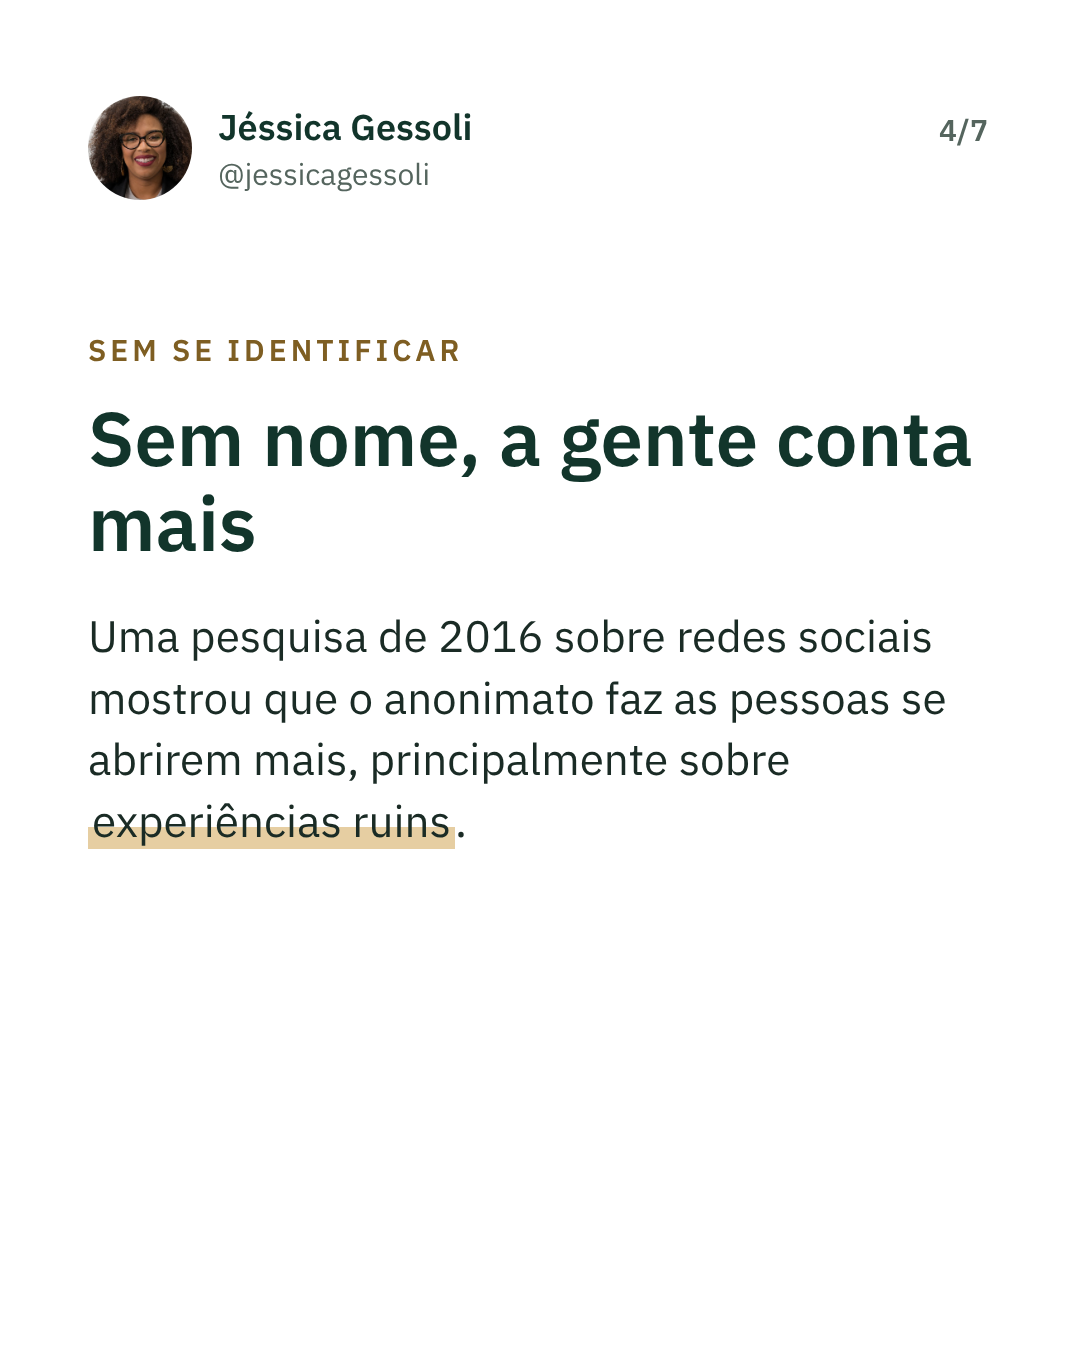
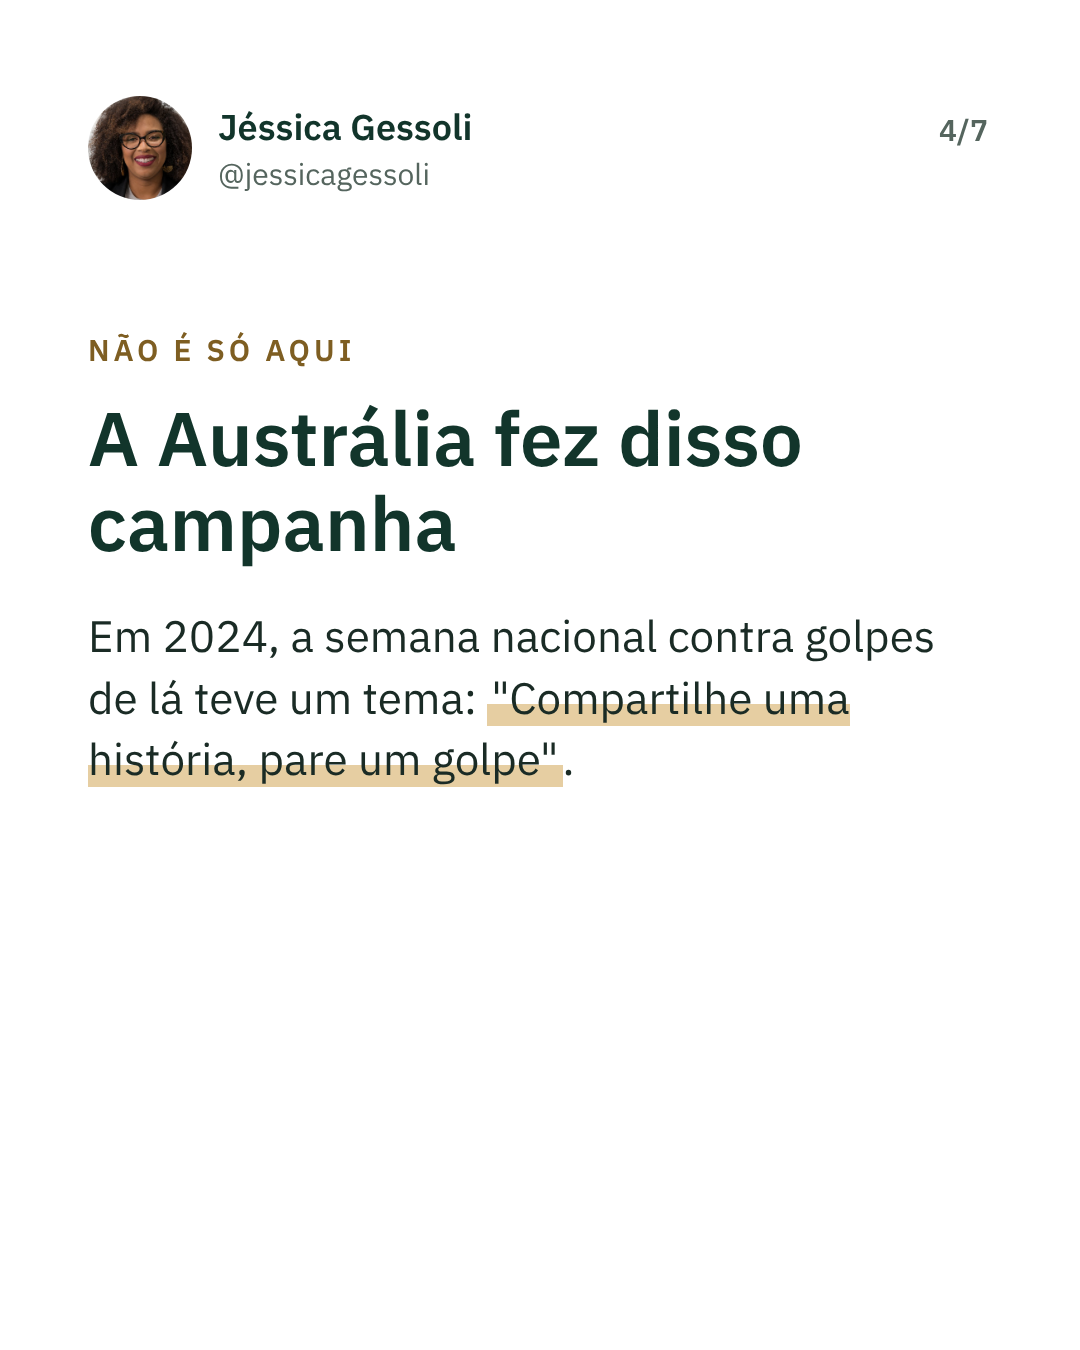
Liga 'E escondem' ao lançamento do 'Conte o seu golpe' (chamada para o dia seguinte; abertura que retoma o post anterior)
Claude-Session: https://claude.ai/code/session_014grh3uaSABRrhKanxqxRUA

Changed region(s): [[0.0611, 0.4356, 0.8861, 0.6533], [0.0611, 0.2489, 0.9167, 0.4356]]

diff --git a/campaigns/social/silencio-2026-10/out/2026-10-22-especialistas-caem-e-escondem-7.html b/campaigns/social/silencio-2026-10/out/2026-10-22-especialistas-caem-e-escondem-7.html
@@ -54,4 +54,4 @@ body.s-por{background:#F3F5F2}
 .chk{position:absolute;left:88px;top:860px;display:flex;gap:26px}.chk div{width:92px;height:92px;border:6px solid #D9B76E;border-radius:16px;position:relative}
 .chk div.ok{background:#D9B76E}.chk div.ok:after{content:"";position:absolute;left:28px;top:8px;width:22px;height:46px;border:solid #12352B;border-width:0 10px 10px 0;transform:rotate(45deg)}
 body.s-lat{background:#D9B76E;color:#12352B}.s-lat .at,.s-lat .pg{color:#12352B;opacity:.75}.s-lat mark{background:none;color:#12352B;text-decoration:underline;text-decoration-thickness:8px;text-underline-offset:14px;padding:0}.s-lat .qm,.s-lat .qa{color:#12352B}
-</style></head><body class="dark"><div class="hdr"><div class="av"></div><div><div class="nm">Jéssica Gessoli</div><div class="at">@jessicagessoli</div></div></div><div class="pg">7/7</div><div class="box"><div class="eb">POR ISSO EU CONTEI</div><div class="tt">Quem esconde protege a própria imagem. <mark>Quem conta protege os outros.</mark></div><div class="bd">Salva e manda para quem já caiu e nunca contou.</div></div></body></html>
+</style></head><body class="dark"><div class="hdr"><div class="av"></div><div><div class="nm">Jéssica Gessoli</div><div class="at">@jessicagessoli</div></div></div><div class="pg">7/7</div><div class="box"><div class="eb">POR ISSO EU CONTEI</div><div class="tt">Quem esconde protege a própria imagem. <mark>Quem conta protege os outros.</mark></div><div class="bd">Amanhã eu abro um canal para você contar o seu, sem se identificar. Salva e manda para quem já caiu e nunca contou.</div></div></body></html>

diff --git a/campaigns/social/conte-seu-golpe-2026-10/out/2026-10-23-conte-o-seu-golpe-4.html b/campaigns/social/conte-seu-golpe-2026-10/out/2026-10-23-conte-o-seu-golpe-4.html
@@ -54,4 +54,4 @@ body.s-por{background:#F3F5F2}
 .chk{position:absolute;left:88px;top:860px;display:flex;gap:26px}.chk div{width:92px;height:92px;border:6px solid #D9B76E;border-radius:16px;position:relative}
 .chk div.ok{background:#D9B76E}.chk div.ok:after{content:"";position:absolute;left:28px;top:8px;width:22px;height:46px;border:solid #12352B;border-width:0 10px 10px 0;transform:rotate(45deg)}
 body.s-lat{background:#D9B76E;color:#12352B}.s-lat .at,.s-lat .pg{color:#12352B;opacity:.75}.s-lat mark{background:none;color:#12352B;text-decoration:underline;text-decoration-thickness:8px;text-underline-offset:14px;padding:0}.s-lat .qm,.s-lat .qa{color:#12352B}
-</style></head><body class=""><div class="hdr"><div class="av"></div><div><div class="nm">Jéssica Gessoli</div><div class="at">@jessicagessoli</div></div></div><div class="pg">4/7</div><div class="box"><div class="eb">SEM SE IDENTIFICAR</div><div class="tt">Sem nome, a gente conta mais</div><div class="bd">Uma pesquisa de 2016 sobre redes sociais mostrou que o anonimato faz as pessoas se abrirem mais, principalmente sobre <mark>experiências ruins</mark>.</div></div></body></html>
+</style></head><body class=""><div class="hdr"><div class="av"></div><div><div class="nm">Jéssica Gessoli</div><div class="at">@jessicagessoli</div></div></div><div class="pg">4/7</div><div class="box"><div class="eb">NÃO É SÓ AQUI</div><div class="tt">A Austrália fez disso campanha</div><div class="bd">Em 2024, a semana nacional contra golpes de lá teve um tema: <mark>&quot;Compartilhe uma história, pare um golpe&quot;</mark>.</div></div></body></html>

diff --git a/campaigns/social/conte-seu-golpe-2026-10/out/2026-10-23-conte-o-seu-golpe-2.html b/campaigns/social/conte-seu-golpe-2026-10/out/2026-10-23-conte-o-seu-golpe-2.html
@@ -54,4 +54,4 @@ body.s-por{background:#F3F5F2}
 .chk{position:absolute;left:88px;top:860px;display:flex;gap:26px}.chk div{width:92px;height:92px;border:6px solid #D9B76E;border-radius:16px;position:relative}
 .chk div.ok{background:#D9B76E}.chk div.ok:after{content:"";position:absolute;left:28px;top:8px;width:22px;height:46px;border:solid #12352B;border-width:0 10px 10px 0;transform:rotate(45deg)}
 body.s-lat{background:#D9B76E;color:#12352B}.s-lat .at,.s-lat .pg{color:#12352B;opacity:.75}.s-lat mark{background:none;color:#12352B;text-decoration:underline;text-decoration-thickness:8px;text-underline-offset:14px;padding:0}.s-lat .qm,.s-lat .qa{color:#12352B}
-</style></head><body class=""><div class="hdr"><div class="av"></div><div><div class="nm">Jéssica Gessoli</div><div class="at">@jessicagessoli</div></div></div><div class="pg">2/7</div><div class="box"><div class="eb">POR QUE CONTAR</div><div class="tt">Golpe contado vira alerta</div><div class="bd">O golpista conta com o seu silêncio. Cada história contada mostra o roteiro para quem <mark>ainda não recebeu</mark> a mensagem.</div></div></body></html>
+</style></head><body class=""><div class="hdr"><div class="av"></div><div><div class="nm">Jéssica Gessoli</div><div class="at">@jessicagessoli</div></div></div><div class="pg">2/7</div><div class="box"><div class="eb">ONTEM EU MOSTREI</div><div class="tt">8 em cada 10 teriam vergonha</div><div class="bd">Numa pesquisa britânica, de admitir que caíram num golpe. Por isso, hoje eu abro um lugar para contar <mark>sem se identificar</mark>.</div></div></body></html>

diff --git a/campaigns/social/conte-seu-golpe-2026-10/out/2026-10-23-conte-o-seu-golpe-3.html b/campaigns/social/conte-seu-golpe-2026-10/out/2026-10-23-conte-o-seu-golpe-3.html
@@ -54,4 +54,4 @@ body.s-por{background:#F3F5F2}
 .chk{position:absolute;left:88px;top:860px;display:flex;gap:26px}.chk div{width:92px;height:92px;border:6px solid #D9B76E;border-radius:16px;position:relative}
 .chk div.ok{background:#D9B76E}.chk div.ok:after{content:"";position:absolute;left:28px;top:8px;width:22px;height:46px;border:solid #12352B;border-width:0 10px 10px 0;transform:rotate(45deg)}
 body.s-lat{background:#D9B76E;color:#12352B}.s-lat .at,.s-lat .pg{color:#12352B;opacity:.75}.s-lat mark{background:none;color:#12352B;text-decoration:underline;text-decoration-thickness:8px;text-underline-offset:14px;padding:0}.s-lat .qm,.s-lat .qa{color:#12352B}
-</style></head><body class=""><div class="hdr"><div class="av"></div><div><div class="nm">Jéssica Gessoli</div><div class="at">@jessicagessoli</div></div></div><div class="pg">3/7</div><div class="box"><div class="eb">NÃO É SÓ AQUI</div><div class="tt">A Austrália fez disso campanha</div><div class="bd">Em 2024, a semana nacional contra golpes de lá teve um tema: <mark>&quot;Compartilhe uma história, pare um golpe&quot;</mark>.</div></div></body></html>
+</style></head><body class=""><div class="hdr"><div class="av"></div><div><div class="nm">Jéssica Gessoli</div><div class="at">@jessicagessoli</div></div></div><div class="pg">3/7</div><div class="box"><div class="eb">POR QUE CONTAR</div><div class="tt">Golpe contado vira alerta</div><div class="bd">O golpista conta com o seu silêncio. Cada história contada mostra o roteiro para quem <mark>ainda não recebeu</mark> a mensagem.</div></div></body></html>

diff --git a/campaigns/social/conte-seu-golpe-2026-10/textos.py b/campaigns/social/conte-seu-golpe-2026-10/textos.py
@@ -1,6 +1,6 @@
 IG = """Você já caiu num golpe? Conte o seu.
 
-Nesta semana eu contei o golpe em que caí. E percebi o que acontece quando a gente se cala: o golpista agradece, porque o mesmo roteiro funciona com o próximo.
+Ontem eu mostrei o silêncio: numa pesquisa britânica, 8 em cada 10 pessoas teriam vergonha de admitir que caíram num golpe. E o golpista agradece, porque o mesmo roteiro funciona com o próximo.
 
 Por isso abri um canal: Conte o seu golpe.
 
@@ -18,18 +18,24 @@ O formulário não substitui o boletim de ocorrência. Se o golpe foi agora: avi
 
 Link na bio. Manda para alguém que já caiu e nunca contou.
 
-Fonte: National Anti-Scam Centre, Austrália (link no primeiro comentário).
+Fontes: Take Five e National Anti-Scam Centre (links no primeiro comentário).
 
 #golpe #segurançadigital #contesseugolpe #especialistastambemcaem"""
 
 COMENTARIO = """Fontes:
 National Anti-Scam Centre (Austrália), "Share a story, stop a scam", Scams Awareness Week de 26 a 30/08/2024: https://www.nasc.gov.au/news/share-a-story-stop-a-scam
-Ma, Hancock e Naaman, "Anonymity, Intimacy and Self-Disclosure in Social Media" (CHI 2016): https://sml.stanford.edu/publications/2016/anonymity-intimacy-and-self-disclosure-social-media
+Take Five / UK Finance, pesquisa GingerComms com 1.510 adultos (2 a 4/03/2020): 80% teriam vergonha de admitir que caíram num golpe: https://www.takefive-stopfraud.org.uk/news/eight-in-ten-brits-would-be-embarrassed-to-admit-they-fell-for-a-scam/
 Política de privacidade: https://zethic.net/privacidade"""
+
+LI_COMENTARIO = COMENTARIO + """
+Bitdefender, 2025 Cybersecurity Assessment Report (1.200 profissionais): 57,6% receberam ordem de manter incidente em sigilo: https://www.businesswire.com/news/home/20250624779014/en
+Conte o seu golpe: [link do formulário, entra quando o canal estiver no ar]
+
+Quer saber onde o seu Negócio está mais exposto a golpe e vazamento de dados? Vamos conversar 30 minutos: https://calendly.com/jessica-gessoli-zethic/conversa-de-30-minutos-com-a-jessica-gessoli"""
 
 LI = """Quem cai num golpe e se cala protege o golpista.
 
-Nesta semana contei aqui o golpe em que caí há 6 anos, já com 12 anos de carreira em risco. E escrevi sobre o silêncio: na nossa área, a frase que vem é "se eu contar, perco a credibilidade".
+Ontem escrevi aqui sobre o silêncio: na nossa área, a frase que vem é "se eu contar, perco a credibilidade". E 57,6% dos profissionais de TI e segurança ouvidos pela Bitdefender em 2025 já receberam ordem para manter um incidente em sigilo.
 
 O caminho que funciona é o contrário. Em 2024, a Austrália fez da sua semana nacional contra golpes um convite: "Compartilhe uma história, pare um golpe". A vice-presidente da autoridade de defesa do consumidor de lá disse que quem perdeu dinheiro para criminosos sofisticados não deve sentir vergonha.
 
@@ -49,9 +55,9 @@ O link está no primeiro comentário. Este conteúdo também está no Instagram 
 
 ALT = [
  "Especialistas também caem, de Jéssica Gessoli: Você já caiu num golpe? Conte o seu. Sem nome. Sem julgamento. Para proteger o próximo. Foto de Jéssica sorrindo.",
+ "Ontem eu mostrei: numa pesquisa britânica, 8 em cada 10 teriam vergonha de admitir que caíram num golpe. Por isso, hoje eu abro um lugar para contar sem se identificar.",
  "Por que contar: golpe contado vira alerta. O golpista conta com o seu silêncio. Cada história contada mostra o roteiro para quem ainda não recebeu a mensagem.",
  "Não é só aqui: a Austrália fez disso campanha. Em 2024, a semana nacional contra golpes de lá teve um tema: Compartilhe uma história, pare um golpe.",
- "Sem se identificar: sem nome, a gente conta mais. Uma pesquisa de 2016 sobre redes sociais mostrou que o anonimato faz as pessoas se abrirem mais, principalmente sobre experiências ruins.",
  "Como funciona o Conte o seu golpe: 1. Leva poucos minutos e não pede o seu nome. 2. Você escolhe se o relato pode virar post. 3. Nomes, cidades e valores são trocados. 4. Pediu para apagar? Eu apago.",
  "O que nunca vai aparecer: o passo a passo do golpista. Os posts mostram os sinais de alerta, não o roteiro completo. E o formulário nunca pede CPF, telefone ou dados de banco.",
  "Eu comecei: eu contei o meu. Agora é a sua vez. Link na bio: Conte o seu golpe. Manda para alguém que já caiu e nunca contou.",

diff --git a/campaigns/social/silencio-2026-10/textos.py b/campaigns/social/silencio-2026-10/textos.py
@@ -1,10 +1,10 @@
 IG = """Especialistas também caem. E escondem.
 
-Nesta semana eu contei o golpe em que caí. Hesitei antes de contar. Quem é da área sente que não tem o direito de cair, e a frase que vem é: "se eu contar, perco a credibilidade".
+Nesta semana eu contei o golpe em que caí. Hesitei antes de contar. Quem é da área sente que não pode cair, e pensa: "se eu contar, perco a credibilidade".
 
 Esse silêncio não é só de especialista. Numa pesquisa britânica de 2020, 80% disseram que teriam vergonha de admitir que caíram num golpe, e só 9% contariam ao chefe. No Brasil, só 18% de quem perdeu dinheiro em golpe de anúncio fez boletim de ocorrência (Datafolha, 2024).
 
-E o golpista agradece: quem esconde não avisa ninguém, e o mesmo roteiro funciona com o próximo.
+E o golpista agradece: o mesmo roteiro funciona com o próximo.
 
 Caiu? Faça isto no mesmo dia:
 1. Conte para alguém de confiança.
@@ -12,7 +12,9 @@ Caiu? Faça isto no mesmo dia:
 3. Na equipe: quem avisa rápido não é punido.
 4. Compartilhe o roteiro do golpe, não a culpa.
 
-Quem esconde protege a própria imagem. Quem conta protege os outros. Salva e manda para quem já caiu e nunca contou.
+Quem esconde protege a própria imagem. Quem conta protege os outros. Amanhã eu abro um canal para você contar o seu, sem se identificar.
+
+Salva e manda para quem já caiu e nunca contou.
 
 Fontes: Take Five, Datafolha, Bitdefender e NASA (links no primeiro comentário).
 
@@ -36,7 +38,7 @@ Outras áreas já aprenderam o contrário:
 
 Na empresa, quem esconde um golpe por medo da punição atrasa a resposta e deixa o mesmo roteiro funcionar com o colega ao lado.
 
-Credibilidade em segurança não vem de parecer infalível. Vem de mostrar como você reage quando falha.
+Credibilidade em segurança não vem de parecer infalível. Vem de mostrar como você reage quando falha. Por isso, amanhã eu abro aqui um canal para quem quiser contar o próprio golpe, sem se identificar.
 
 Na sua empresa, quem cai num golpe avisa no mesmo dia ou esconde?
 
@@ -56,5 +58,5 @@ ALT = [
  "Nas empresas: o silêncio também vira regra. Em 2025, 57,6% dos profissionais de TI e segurança ouvidos pela Bitdefender disseram que já receberam ordem para manter um incidente em sigilo.",
  "A aviação já entendeu: erro contado vira proteção. Desde 1976, pilotos e controladores relatam erros à NASA sem medo de punição. Já são mais de 2,3 milhões de relatos.",
  "Como quebrar o silêncio. Caiu? Faça isto no mesmo dia: 1. Conte para alguém de confiança. 2. Avise o banco e faça boletim de ocorrência. 3. Na equipe: quem avisa rápido não é punido. 4. Compartilhe o roteiro do golpe, não a culpa.",
- "Por isso eu contei: quem esconde protege a própria imagem. Quem conta protege os outros. Salva e manda para quem já caiu e nunca contou.",
+ "Por isso eu contei: quem esconde protege a própria imagem. Quem conta protege os outros. Amanhã eu abro um canal para você contar o seu, sem se identificar. Salva e manda para quem já caiu e nunca contou.",
 ]

diff --git a/campaigns/social/conte-seu-golpe-2026-10/posts.py b/campaigns/social/conte-seu-golpe-2026-10/posts.py
@@ -4,9 +4,9 @@ POSTS = [
  dict(slug="2026-10-23-conte-o-seu-golpe", serie="especialistas", rede="instagram", data="2026-10-23T18:00:00", tipo="carrossel",
   slides=[
    ("cover", "Você já caiu num golpe? [[Conte o seu.]]", "Sem nome. Sem julgamento. Para proteger o próximo."),
+   ("text", "ONTEM EU MOSTREI", "8 em cada 10 teriam vergonha", "Numa pesquisa britânica, de admitir que caíram num golpe. Por isso, hoje eu abro um lugar para contar [[sem se identificar]]."),
    ("text", "POR QUE CONTAR", "Golpe contado vira alerta", "O golpista conta com o seu silêncio. Cada história contada mostra o roteiro para quem [[ainda não recebeu]] a mensagem."),
    ("text", "NÃO É SÓ AQUI", "A Austrália fez disso campanha", "Em 2024, a semana nacional contra golpes de lá teve um tema: [[\"Compartilhe uma história, pare um golpe\"]]."),
-   ("text", "SEM SE IDENTIFICAR", "Sem nome, a gente conta mais", "Uma pesquisa de 2016 sobre redes sociais mostrou que o anonimato faz as pessoas se abrirem mais, principalmente sobre [[experiências ruins]]."),
    ("list", "COMO FUNCIONA", "Conte o seu golpe", ["Leva poucos minutos e não pede o seu nome.", "Você escolhe se o relato pode virar post.", "Nomes, cidades e valores são trocados.", "Pediu para apagar? Eu apago."]),
    ("text", "O QUE NUNCA VAI APARECER", "O passo a passo do golpista", "Os posts mostram os sinais de alerta, não o roteiro completo. E o formulário [[nunca pede]] CPF, telefone ou dados de banco."),
    ("end", "EU COMECEI", "Eu contei o meu. [[Agora é a sua vez.]]", "Link na bio: Conte o seu golpe. Manda para alguém que já caiu e nunca contou."),

diff --git a/campaigns/social/silencio-2026-10/posts.py b/campaigns/social/silencio-2026-10/posts.py
@@ -9,7 +9,7 @@ POSTS = [
    ("text", "NAS EMPRESAS", "O silêncio também vira regra", "Em 2025, [[57,6%]] dos profissionais de TI e segurança ouvidos pela Bitdefender disseram que já receberam ordem para manter um incidente em sigilo."),
    ("text", "A AVIAÇÃO JÁ ENTENDEU", "Erro contado vira proteção", "Desde 1976, pilotos e controladores relatam erros à NASA sem medo de punição. Já são [[mais de 2,3 milhões]] de relatos."),
    ("list", "COMO QUEBRAR O SILÊNCIO", "Caiu? Faça isto no mesmo dia", ["Conte para alguém de confiança.", "Avise o banco e faça boletim de ocorrência.", "Na equipe: quem avisa rápido não é punido.", "Compartilhe o roteiro do golpe, não a culpa."]),
-   ("end", "POR ISSO EU CONTEI", "Quem esconde protege a própria imagem. [[Quem conta protege os outros.]]", "Salva e manda para quem já caiu e nunca contou."),
+   ("end", "POR ISSO EU CONTEI", "Quem esconde protege a própria imagem. [[Quem conta protege os outros.]]", "Amanhã eu abro um canal para você contar o seu, sem se identificar. Salva e manda para quem já caiu e nunca contou."),
   ],
   texto=""),
 ]
